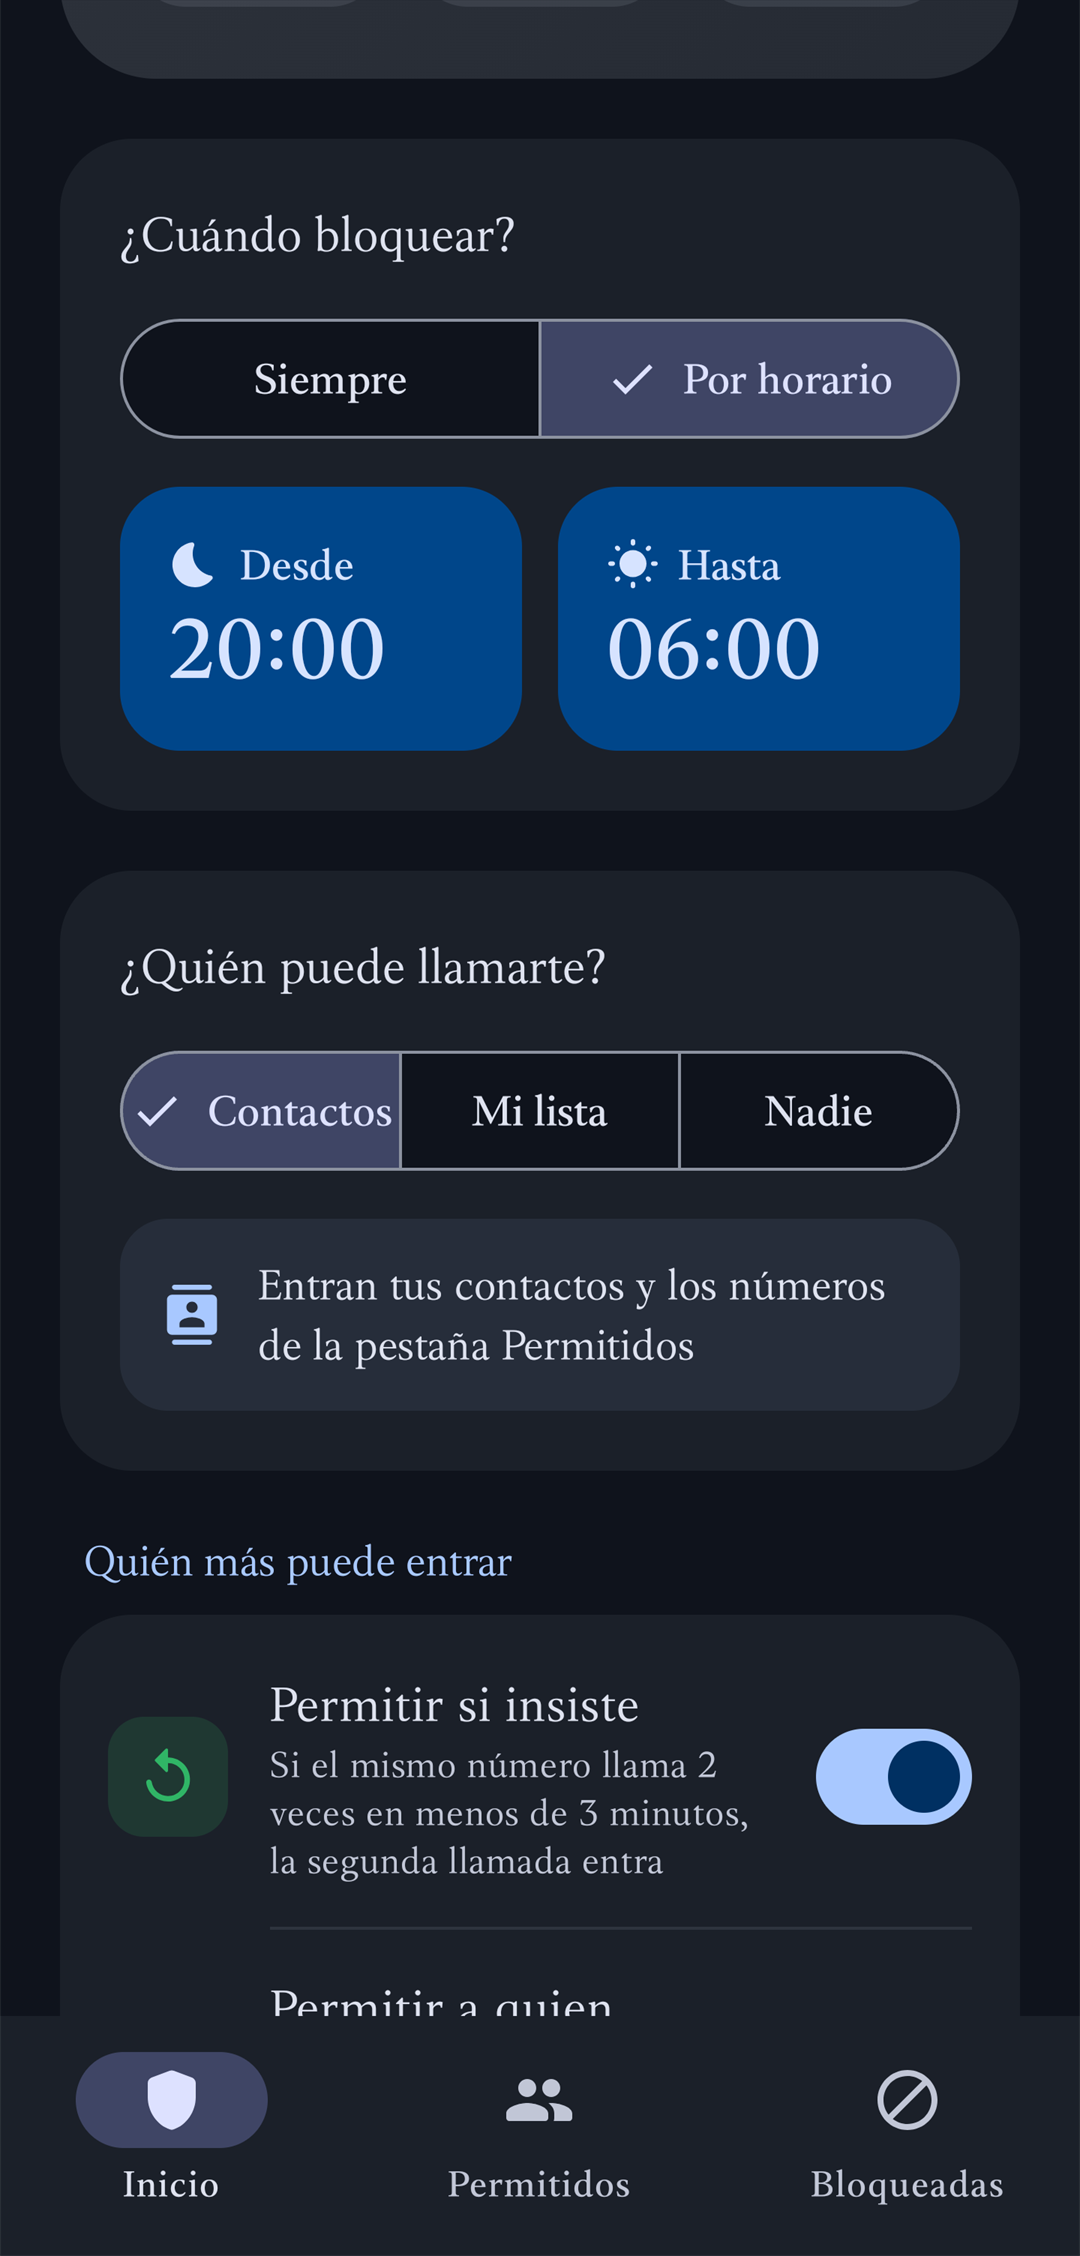
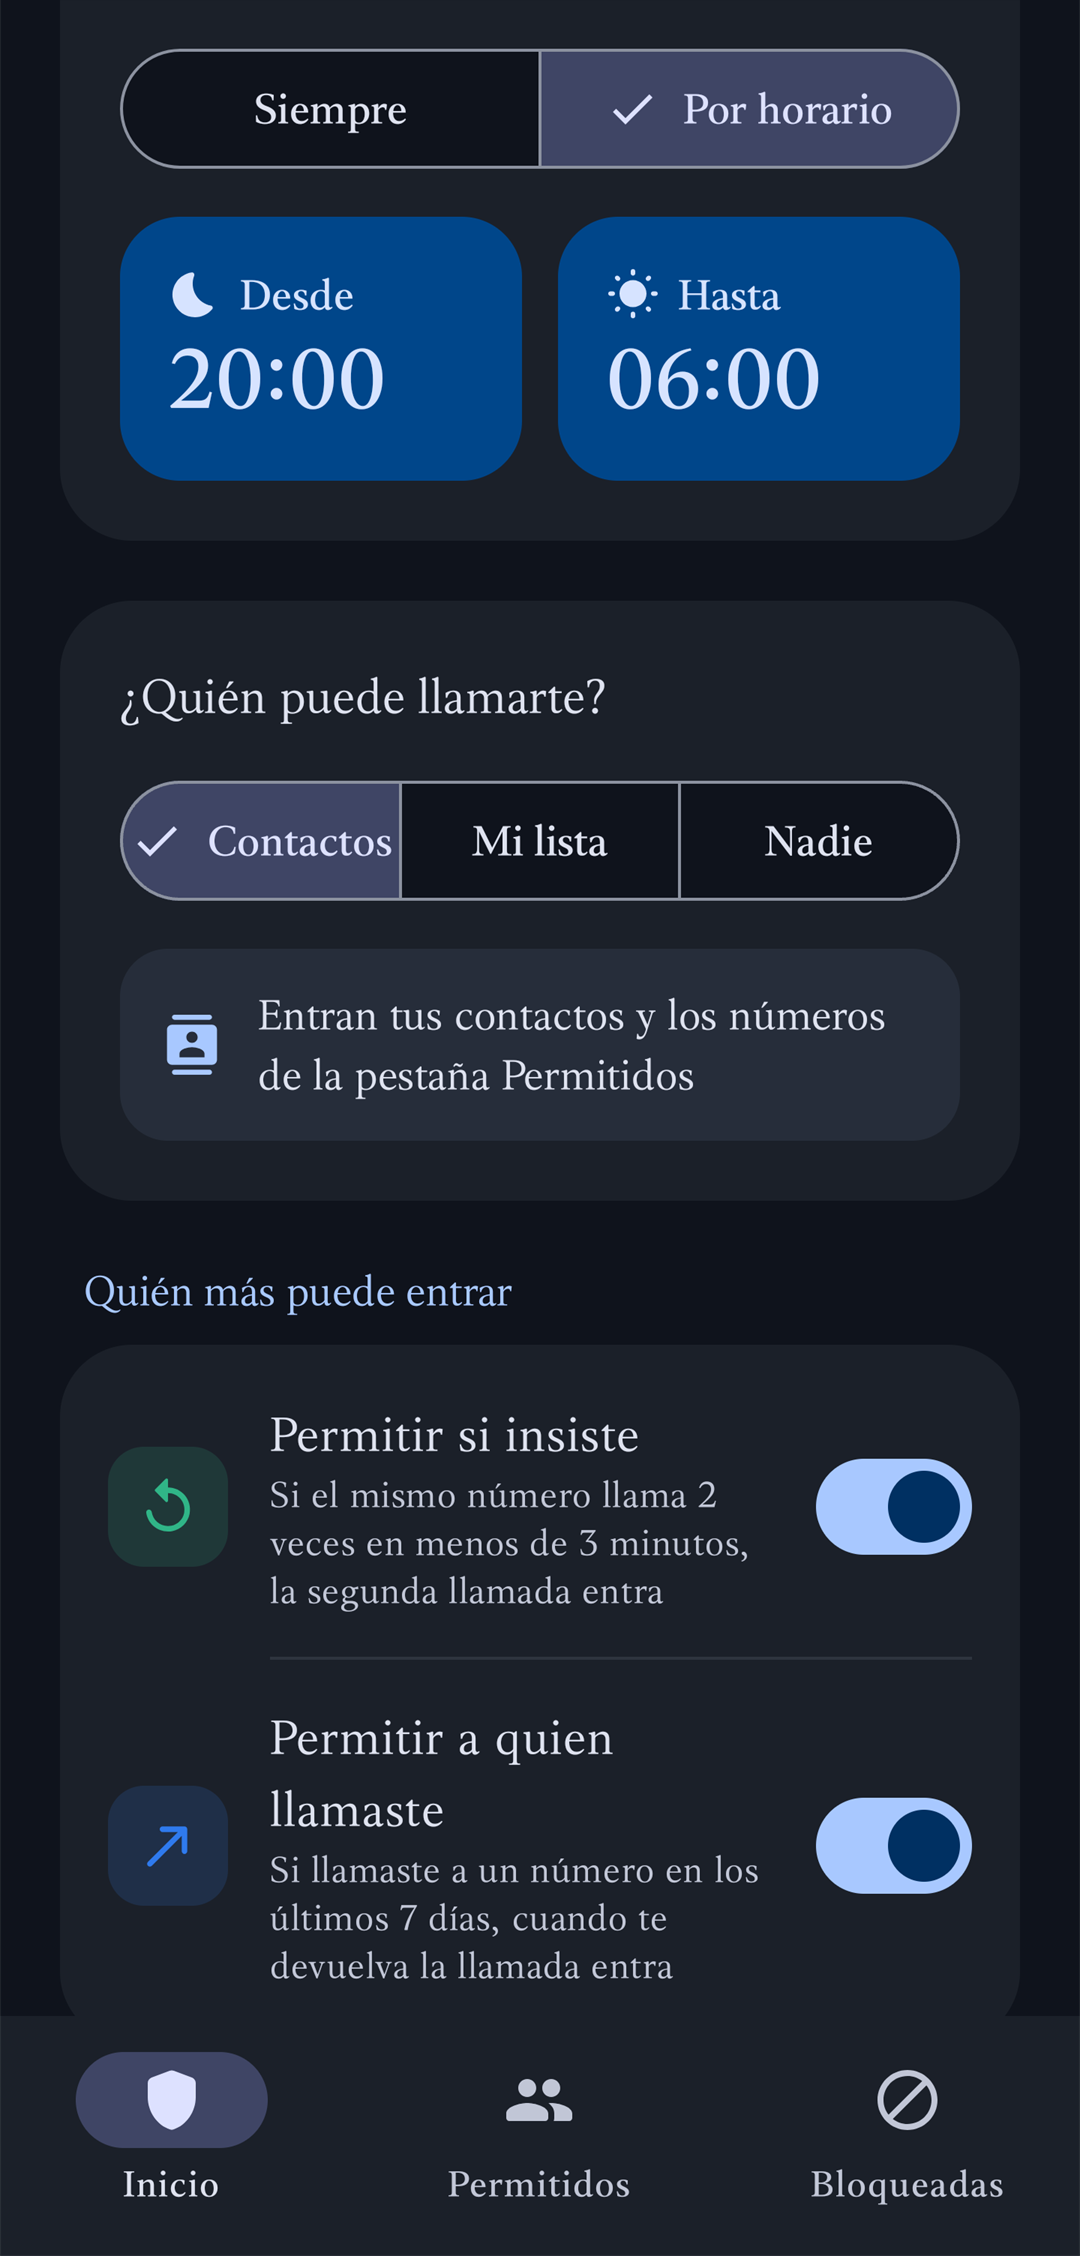
BlockCall 1.5: sección de la pausa temporal, capturas nuevas y SHA-256

diff --git a/index.html b/index.html
@@ -333,10 +333,37 @@
     </div>
   </section>
 
-  <!-- 05 · Nuevo en 1.4 -->
+  <!-- 05 · Nuevo en 1.5 -->
   <section class="chapter" id="nuevo">
     <div class="copy reveal">
-      <p class="eyebrow"><span>05</span> · <span lang="es">Nuevo en 1.4</span><span lang="en">New in 1.4</span></p>
+      <p class="eyebrow"><span>05</span> · <span lang="es">Nuevo en 1.5</span><span lang="en">New in 1.5</span></p>
+      <h2><span lang="es">¿Esperas una llamada?<br><em>Haz una pausa</em>.</span><span lang="en">Expecting a call?<br><em>Take a pause</em>.</span></h2>
+      <p class="body"><span lang="es"><b>Pausa temporal:</b> deja pasar a todos durante 30 minutos, 1 hora, 2 horas o hasta la hora que elijas. El domiciliario, la entrevista o el médico te encuentran, y después la protección vuelve sola: no tienes que acordarte de nada.</span><span lang="en"><b>Temporary pause:</b> let everyone through for 30 minutes, 1 hour, 2 hours or until a time you choose. The delivery, the interview or the doctor can reach you, and then protection turns back on by itself: nothing to remember.</span></p>
+      <p class="body"><span lang="es">Mientras dura, un aviso con cuenta atrás te lo recuerda y te deja reanudar con un toque. Y con el <b>botón en los ajustes rápidos</b> pausas sin abrir la app: cada toque suma tiempo.</span><span lang="en">While it lasts, a countdown notification reminds you and lets you resume with one tap. And with the <b>Quick Settings button</b> you pause without opening the app: each tap adds time.</span></p>
+      <ul class="chips">
+        <li><span lang="es">Vuelve sola</span><span lang="en">Turns back on by itself</span></li>
+        <li><span lang="es">Aviso con cuenta atrás</span><span lang="en">Countdown notification</span></li>
+        <li><span lang="es">Botón en la cortina</span><span lang="en">Quick Settings button</span></li>
+      </ul>
+    </div>
+    <div class="art reveal">
+      <div class="shots two">
+        <figure class="shot">
+          <div class="phone"><img lang="es" src="img/es-home.png" alt="Pausa temporal: 30 min, 1 h, 2 h o personalizada" loading="lazy" width="1080" height="2256"><img lang="en" src="img/en-home.png" alt="Temporary pause: 30 min, 1 h, 2 h or custom" loading="lazy" width="1080" height="2256"></div>
+          <figcaption><b><span lang="es">Elige cuánto</span><span lang="en">Pick how long</span></b><span lang="es">30 min, 1 h, 2 h o personalizada</span><span lang="en">30 min, 1 h, 2 h or custom</span></figcaption>
+        </figure>
+        <figure class="shot lift">
+          <div class="phone"><img lang="es" src="img/es-pause.png" alt="En pausa, con el tiempo que queda" loading="lazy" width="1080" height="2256"><img lang="en" src="img/en-pause.png" alt="Paused, with the time left" loading="lazy" width="1080" height="2256"></div>
+          <figcaption><b><span lang="es">En pausa</span><span lang="en">Paused</span></b><span lang="es">Cuenta atrás y reanudar</span><span lang="en">Countdown and resume</span></figcaption>
+        </figure>
+      </div>
+    </div>
+  </section>
+
+  <!-- 06 · Más control -->
+  <section class="chapter flip" id="control">
+    <div class="copy reveal">
+      <p class="eyebrow"><span>06</span> · <span lang="es">Más control</span><span lang="en">More control</span></p>
       <h2><span lang="es">Más lista,<br><em>igual de callada</em>.</span><span lang="en">Smarter,<br><em>just as quiet</em>.</span></h2>
       <p class="body"><span lang="es"><b>Permitir a quien llamaste:</b> si tú llamaste a un número en los últimos 7 días, su llamada de vuelta entra. El taller, la clínica o el domicilio te encuentran aunque no estén en tu agenda.</span><span lang="en"><b>Allow people you called:</b> if you called a number in the last 7 days, their call back gets through. The garage, the clinic or the delivery can reach you even if they're not in your contacts.</span></p>
       <p class="body"><span lang="es"><b>Bloquear internacionales:</b> rechaza a los desconocidos que no empiecen por el indicativo de tu país, también fuera del horario y aunque insistan.</span><span lang="en"><b>Block international calls:</b> rejects unknown callers that don't start with your country code, even outside the schedule and if they insist.</span></p>
@@ -361,10 +388,10 @@
     </div>
   </section>
 
-  <!-- 06 · Apariencia -->
-  <section class="chapter flip" id="tema">
+  <!-- 07 · Apariencia -->
+  <section class="chapter" id="tema">
     <div class="copy reveal">
-      <p class="eyebrow"><span>06</span> · <span lang="es">Apariencia</span><span lang="en">Appearance</span></p>
+      <p class="eyebrow"><span>07</span> · <span lang="es">Apariencia</span><span lang="en">Appearance</span></p>
       <h2><span lang="es">Claro u oscuro,<br><em>como tu Android</em>.</span><span lang="en">Light or dark,<br><em>like your Android</em>.</span></h2>
       <p class="body"><span lang="es">Sigue el tema del sistema y los colores de tu fondo de pantalla (Material You). Si prefieres uno fijo, elígelo en Apariencia. En español o en inglés, según tu teléfono.</span><span lang="en">It follows your system theme and wallpaper colors (Material You). If you prefer a fixed one, pick it under Appearance. In English or Spanish, following your phone.</span></p>
     </div>
@@ -382,10 +409,10 @@
     </div>
   </section>
 
-  <!-- 07 · Ligero -->
-  <section class="chapter" id="ligero">
+  <!-- 08 · Ligero -->
+  <section class="chapter flip" id="ligero">
     <div class="copy reveal">
-      <p class="eyebrow"><span>07</span> · <span lang="es">Ligero</span><span lang="en">Light</span></p>
+      <p class="eyebrow"><span>08</span> · <span lang="es">Ligero</span><span lang="en">Light</span></p>
       <h2><span lang="es">Hecha para<br><em>no notarse</em>.</span><span lang="en">Built to<br><em>go unnoticed</em>.</span></h2>
       <p class="body"><span lang="es">Usa la API oficial de Android para filtrar llamadas: el sistema la despierta solo cuando entra una llamada, decide en milisegundos y la vuelve a dormir. Ningún limpiador de tareas puede detenerla, y si algo fallara, la llamada entra: nunca pierdes a un contacto.</span><span lang="en">It uses Android's official call screening API: the system wakes it only when a call arrives, it decides in milliseconds and goes back to sleep. Task killers can't stop it, and if anything failed the call would ring: you never miss a contact.</span></p>
       <p class="body"><span lang="es">Sin permiso de internet, sin anuncios, sin rastreadores. Tus contactos y tu historial nunca salen del teléfono.</span><span lang="en">No internet permission, no ads, no trackers. Your contacts and history never leave your phone.</span></p>
@@ -400,10 +427,10 @@
     </div>
   </section>
 
-  <!-- 08 · Instalar -->
+  <!-- 09 · Instalar -->
   <section class="chapter wide" id="instalar">
     <div class="copy reveal">
-      <p class="eyebrow"><span>08</span> · <span lang="es">Instalar</span><span lang="en">Install</span></p>
+      <p class="eyebrow"><span>09</span> · <span lang="es">Instalar</span><span lang="en">Install</span></p>
       <h2><span lang="es">Lista en<br><em>un minuto</em>.</span><span lang="en">Ready in<br><em>a minute</em>.</span></h2>
       <p class="body"><span lang="es">Un asistente te explica cada aviso de Android antes de que aparezca.</span><span lang="en">An assistant explains each Android prompt before it appears.</span></p>
       <ol class="steps">
@@ -424,16 +451,16 @@
     </div>
   </section>
 
-  <!-- 09 · Descargar -->
+  <!-- 10 · Descargar -->
   <section class="download" id="descargar">
     <div class="glow glow-c"></div>
-    <p class="eyebrow"><span>09</span> · <span lang="es">Descargar</span><span lang="en">Download</span></p>
+    <p class="eyebrow"><span>10</span> · <span lang="es">Descargar</span><span lang="en">Download</span></p>
     <h2><span lang="es">Tu teléfono,<br><em>en silencio</em>.</span><span lang="en">Your phone,<br><em>at peace</em>.</span></h2>
     <a class="btn btn-primary btn-xl" href="https://github.com/blockcallcm/BlockCall/releases/latest/download/BlockCall.apk">
       <svg viewBox="0 0 24 24" aria-hidden="true"><path fill="currentColor" d="M17.6 9.48l1.84-3.18a.38.38 0 0 0-.66-.38l-1.86 3.22a11.5 11.5 0 0 0-9.84 0L5.22 5.92a.38.38 0 0 0-.66.38L6.4 9.48A10.8 10.8 0 0 0 1 18h22a10.8 10.8 0 0 0-5.4-8.52zM7 15.25a1.25 1.25 0 1 1 0-2.5 1.25 1.25 0 0 1 0 2.5zm10 0a1.25 1.25 0 1 1 0-2.5 1.25 1.25 0 0 1 0 2.5z"/></svg>
       <span lang="es">Descargar APK</span><span lang="en">Download APK</span>
     </a>
-    <p class="dl-meta"><span lang="es">APK · 2 MB · versión</span><span lang="en">APK · 2 MB · version</span> 1.4</p>
+    <p class="dl-meta"><span lang="es">APK · 2 MB · versión</span><span lang="en">APK · 2 MB · version</span> 1.5</p>
     <p class="dl-note"><span lang="es">¿Quieres actualizaciones automáticas? Agrega <b>github.com/blockcallcm/BlockCall</b> en <a href="https://github.com/ImranR98/Obtainium">Obtainium</a>.</span><span lang="en">Want automatic updates? Add <b>github.com/blockcallcm/BlockCall</b> to <a href="https://github.com/ImranR98/Obtainium">Obtainium</a>.</span></p>
     <ul class="dl-facts">
       <li>Android 10+</li>
@@ -442,7 +469,7 @@
       <li><span lang="es">Gratis, sin cuenta y sin publicidad</span><span lang="en">Free, no account, no ads</span></li>
       <li><span lang="es">Código abierto, licencia GPL-3.0</span><span lang="en">Open source, GPL-3.0 license</span></li>
     </ul>
-    <p class="sha"><span>SHA-256</span> <code>d7d1d6f77ed7bed823f98a3435700cccda9b012f4f849466254f44b2ed151675</code></p>
+    <p class="sha"><span>SHA-256</span> <code>e1dcad7a3272a69af999e1b32aec99e570bc7ada758bf9311a717ce46d95d1e8</code></p>
   </section>
 </main>
 
